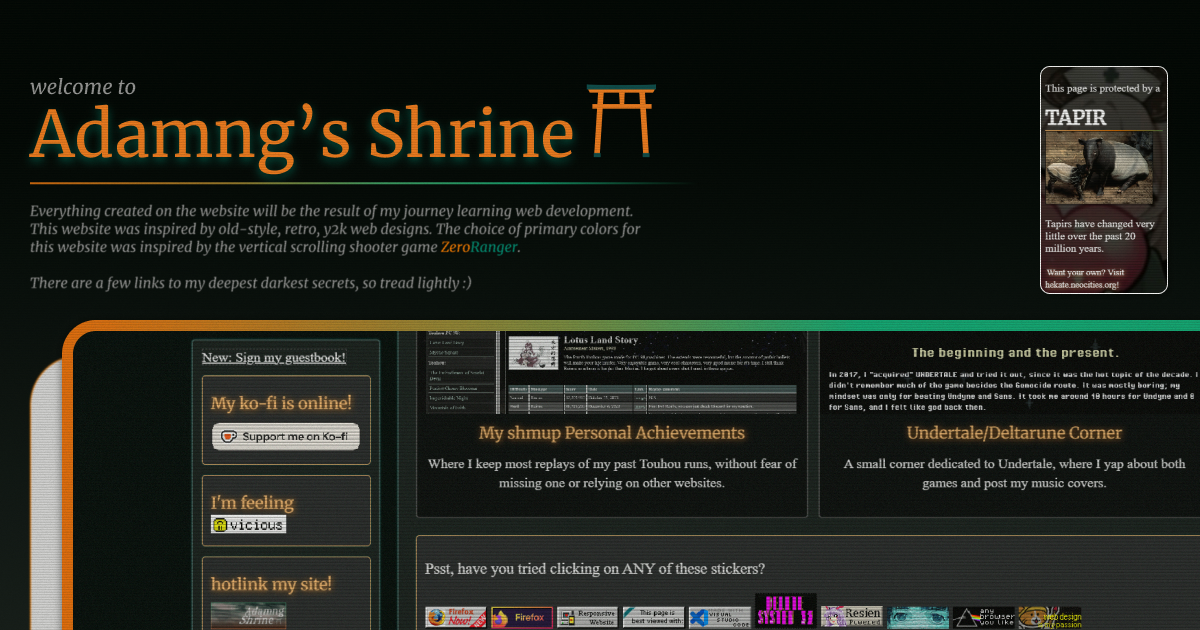
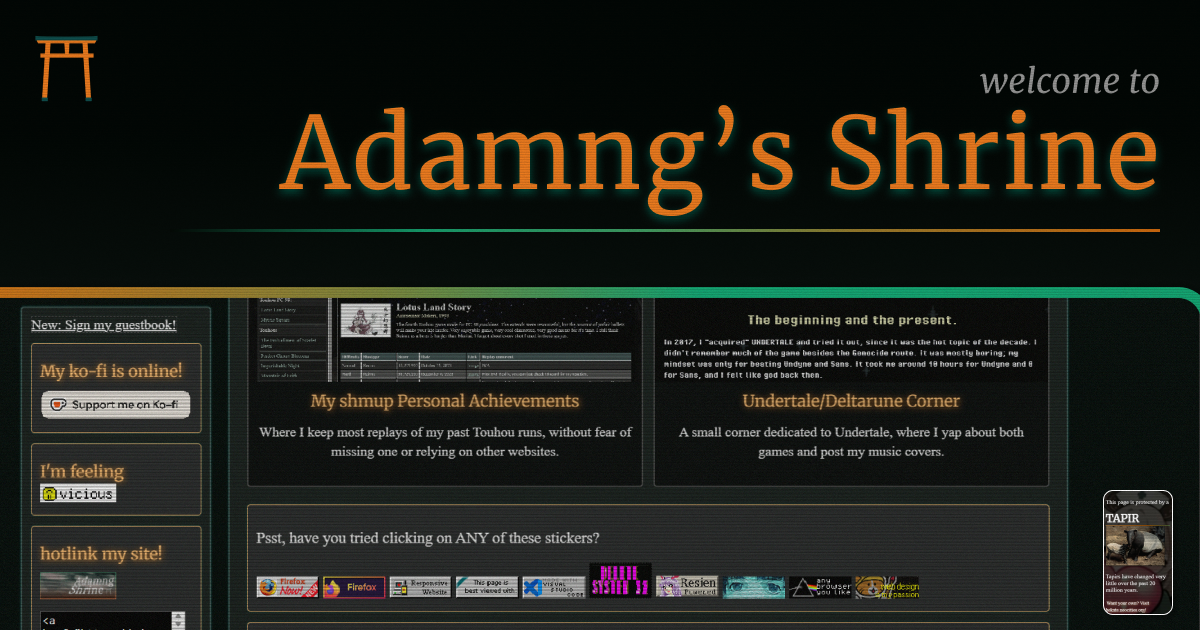
Adjusted thumbnail + scanline script

diff --git a/css/style.css b/css/style.css
@@ -2,6 +2,7 @@
 
 :root {
     --margin-default: 20px 0;
+    --border-radius: 4px;
 }
 
 h3, h4 {
@@ -22,14 +23,16 @@ body {
 }
 
 .scanlines {
-    overflow: hidden;
-    position: relative;
+    position: fixed;
     top: 0;
+    left: 0;
+    width: 100%;
+    height: 100vh;
+    overflow: hidden;
     background-size: auto;
     background-repeat: repeat;
-    background-attachment: scroll;
-    margin: 0; /* Remove default margins */
-    min-height: 90vh;
+    pointer-events: none;
+    z-index: 2;
 }
 .scanlines:before,
 .scanlines:after {
@@ -44,7 +47,7 @@ body {
     background: linear-gradient(
         to bottom,
         transparent 60%,
-        rgba(0, 0, 0, 0.04) 91%
+        rgba(0, 0, 0, 0.044) 91%
     );
     background-size: 90% 4px;
 }
@@ -70,7 +73,7 @@ div.scanlines {
     left: 0;
     width: 100%;
     height: 100%;
-    background-color: #000d13; /* Semi-transparent black overlay */
+    background-color: #5c7d8d1b; /* Semi-transparent black overlay */
     z-index: -1; /* Place the overlay behind the content */
     opacity: 0.4;
 }
@@ -130,7 +133,7 @@ div.scanlines {
     grid-row: 1;
     background-color: black;
     border: 2px solid #3c5853;
-    border-radius: 4px;
+    border-radius: var(--border-radius);
     box-shadow: 1px 1px 2px #004f4d;
     a {
         color: #ffc073;
@@ -157,7 +160,7 @@ div.scanlines {
     grid-row: 2;
     background-color: rgba(158, 158, 158, 0.142);
     border: 2px solid #3c5853;
-    border-radius: 4px;
+    border-radius: var(--border-radius);
     box-shadow: 0 0 2px #004f4d;
     padding: 10px;
 }
@@ -167,7 +170,7 @@ div.scanlines {
     grid-row: 1 / span 2;
     background-color: rgba(158, 158, 158, 0.142);
     border: 2px solid #3c5853;
-    border-radius: 4px;
+    border-radius: var(--border-radius);
     box-shadow: 0 0 2px #004f4d;
     padding: 12px 20px;
     color:rgb(241, 241, 241);
@@ -178,7 +181,7 @@ div.scanlines {
 .about-introduction {
    background-color: #002d2b;
    box-shadow: 0 0 4px #5e5e5e;
-   border-radius: 4px;
+   border-radius: var(--border-radius);
    border: 1px solid white;
    box-shadow: 1px 1px 10px #004f4d;
    padding: 8px;
@@ -196,7 +199,7 @@ div.scanlines {
 .webring_main {
     padding: 10px;
     border: 1px solid #fbbd71;
-    border-radius: 4px;
+    border-radius: var(--border-radius);
     background-color: rgba(47, 47, 47, 0.7);
     box-shadow: 1px 1px 10px #004f4d;
     box-shadow: 0 0 2px #004f4d;
@@ -261,7 +264,7 @@ div.scanlines {
 
 .miscs-section{
     border: 1px solid #ffc073;
-    border-radius: 4px;
+    border-radius: var(--border-radius);
     box-shadow: 0 0 2px #004f4d;
     margin: 20px 0;
     padding: 4px;
@@ -425,7 +428,7 @@ div.scanlines {
     opacity: 0.9;
     margin: 0;
     border: 2px solid rgb(79, 79, 79);
-    border-radius: 4px;
+    border-radius: var(--border-radius);
     text-decoration: none;
     background-color: rgba(0, 0, 0, 0.737);
     transition: all 0.3s ease;
@@ -480,7 +483,7 @@ div.scanlines {
     display: block;
     background-color: #002d2b;
     box-shadow: 0 0 4px #5e5e5e;
-    border-radius: 4px;
+    border-radius: var(--border-radius);
     border: 1px solid white;
 }
 
@@ -500,7 +503,7 @@ div.scanlines {
     font-family: 'times';
     font-size: 12pt; 
     border: 1px solid white; 
-    border-radius: 4px; 
+    border-radius: var(--border-radius); 
     box-shadow: 0 0 10px #004f4d; 
 }
 
@@ -578,14 +581,14 @@ div.scanlines {
         display: none !important;
         background-color: #002d2b;
         box-shadow: 0 0 4px #5e5e5e;
-        border-radius: 4px;
+        border-radius: var(--border-radius);
         border: 1px solid white;
     }
     
     .mobile-visible {
         background-color: #002d2b;
         box-shadow: 0 0 4px #5e5e5e;
-        border-radius: 4px;
+        border-radius: var(--border-radius);
         border: 1px solid white;
         pre{
             display: block;

diff --git a/index.html b/index.html
@@ -8,7 +8,7 @@
     <meta property="og:title" content="Adamng's Shrine">
     <meta property="og:site_name" content="adamngshrine.com">
     <meta property="og:description" content="The whatever website of adamng04.">
-    <meta property="og:image" content="https://adamngshrine.com/images/kys2.png?v=3">
+    <meta property="og:image" content="https://adamngshrine.com/images/kys2.png?v=4">
     <meta property="og:url" content="https://adamngshrine.com/">
     
     <meta name="twitter:card" content="summary_large_image">
@@ -179,10 +179,10 @@
                 <div class="webring_main">
                     <h3>fav hotlinks!</h3>
                     <div class="webring_url">
+                        <a href="https://notbyai.fyi/"><img src="images/Created-By-Human-Not-By-AI-Badge-white.png" alt="Written By Human, Not By AI"></a>
                         <a class="" href="https://dimden.dev/"><img src="https://dimden.dev/services/images/88x31.gif"></a>
                         <a target="_blank" href="https://epic1.neocities.org"><img alt="Visit my webpage!" src="https://epic1.neocities.org/button.gif" style="image-rendering: pixelated"></a>
                         <a href="https://excessiveclownery.neocities.org/"><img src="https://excessiveclownery.neocities.org/Buttons/DaCircus.png"></a>
-                        <a href="https://notbyai.fyi/"><img src="images/Created-By-Human-Not-By-AI-Badge-white.png" alt="Written By Human, Not By AI"></a>
                         <a href="https://status.cafe"><img src="https://status.cafe/assets/button.png" alt="Status Cafe"/></a>
                         <a href="https://kitsunezero4.neocities.org"><img src="/images/kitsune.png"></a>
                         <a target="_blank" href="https://melonking.net"><img alt="Visit Melonking.Net!" src="https://melonking.net/images/badges/MELON-BADGE-2.GIF" style="image-rendering: pixelated"></a>
@@ -281,41 +281,11 @@
                     <small><a href="links.html">more links (warning: if youre unimmune to epileptic effects, do NOT view this page)</a></small>
                 </ul>
             </div>
-
         </div>
     </div>
 
     <script src="https://status.cafe/current-status.js?name=adamng074" defer></script>
     <script src="app.js" type="text/javascript"></script>
     <script src="https://code.jquery.com/jquery-3.7.1.min.js" integrity="sha256-/JqT3SQfawRcv/BIHPThkBvs0OEvtFFmqPF/lYI/Cxo=" crossorigin="anonymous"></script>
-    <script>
-        function myFunction() {
-            var x = document.getElementById("links");
-            if (x.style.display === "block") {
-                x.style.display = "none";
-            } else {
-                x.style.display = "block";
-            }
-        }
-        function showSection(sectionId) {
-            // Hide all sections
-            const sections = document.querySelectorAll('.content');
-            sections.forEach(section => {
-                section.classList.remove('active');
-            });
-            
-            // Remove active class from all buttons
-            const buttons = document.querySelectorAll('.button');
-            buttons.forEach(button => {
-                button.classList.remove('active');
-            });
-            
-            // Show the selected section
-            document.getElementById(sectionId).classList.add('active');
-            
-            // Add active class to the clicked button
-            event.target.classList.add('active');
-        }
-    </script>
 </body>
 </html>

diff --git a/app.js b/app.js
@@ -97,3 +97,48 @@ window.addEventListener('load', () => {
         button()
     })
 })
+
+function updateScanlineHeight() {
+    const scanlines = document.querySelector('.scanlines');
+        if (!scanlines) return;
+        const fullHeight = Math.max(
+        document.body.scrollHeight,
+        document.body.offsetHeight,
+        document.documentElement.clientHeight,
+        document.documentElement.scrollHeight,
+        document.documentElement.offsetHeight
+    );
+    
+    scanlines.style.height = fullHeight + 'px';
+}
+
+document.addEventListener('DOMContentLoaded', updateScanlineHeight);
+window.addEventListener('resize', updateScanlineHeight);
+
+function myFunction() {
+    var x = document.getElementById("links");
+    if (x.style.display === "block") {
+        x.style.display = "none";
+    } else {
+        x.style.display = "block";
+    }
+}
+function showSection(sectionId) {
+    // Hide all sections
+    const sections = document.querySelectorAll('.content');
+    sections.forEach(section => {
+        section.classList.remove('active');
+    });
+            
+    // Remove active class from all buttons
+    const buttons = document.querySelectorAll('.button');
+    buttons.forEach(button => {
+        button.classList.remove('active');
+    });
+            
+    // Show the selected section
+    document.getElementById(sectionId).classList.add('active');
+            
+    // Add active class to the clicked button
+    event.target.classList.add('active');
+}
